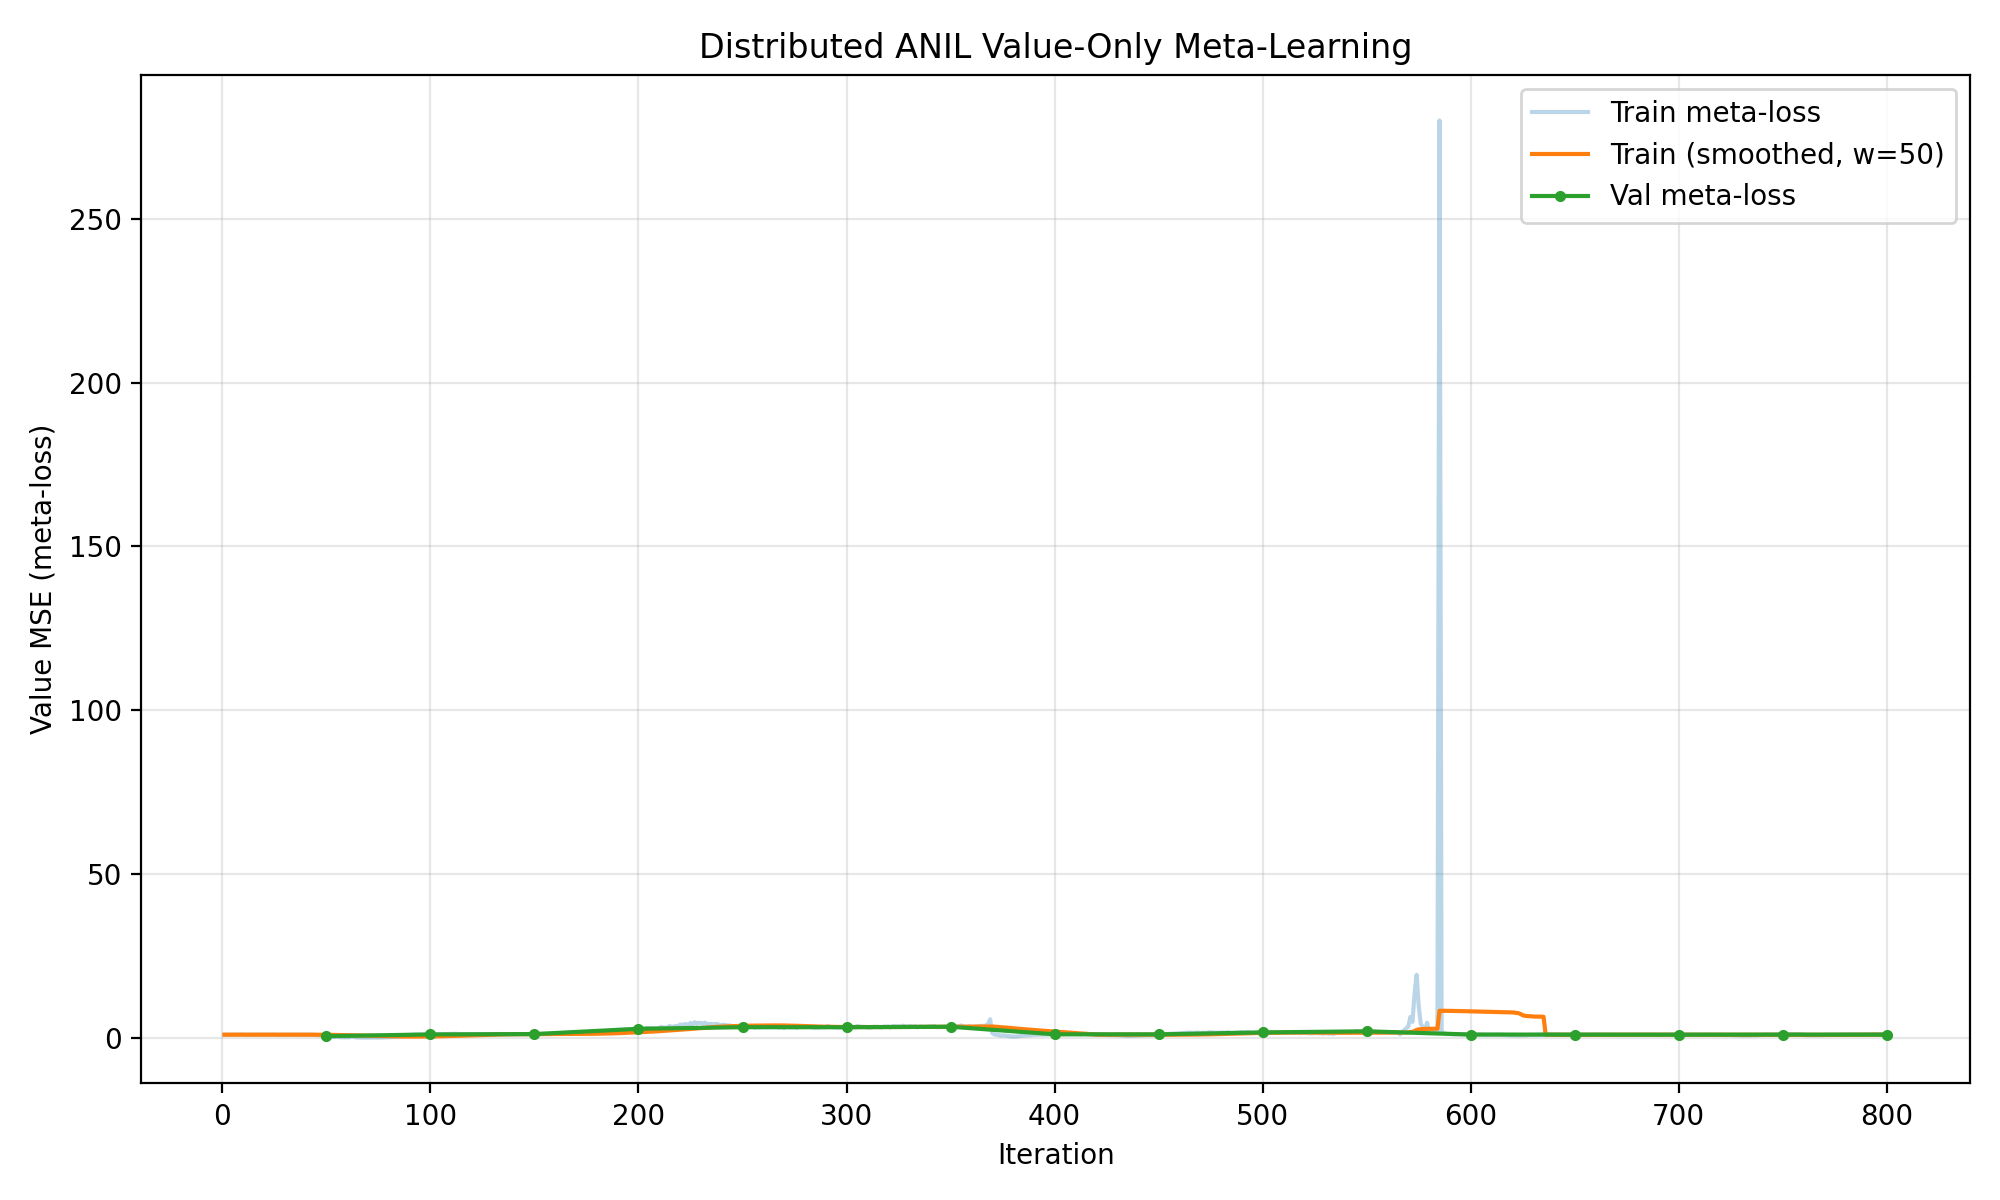
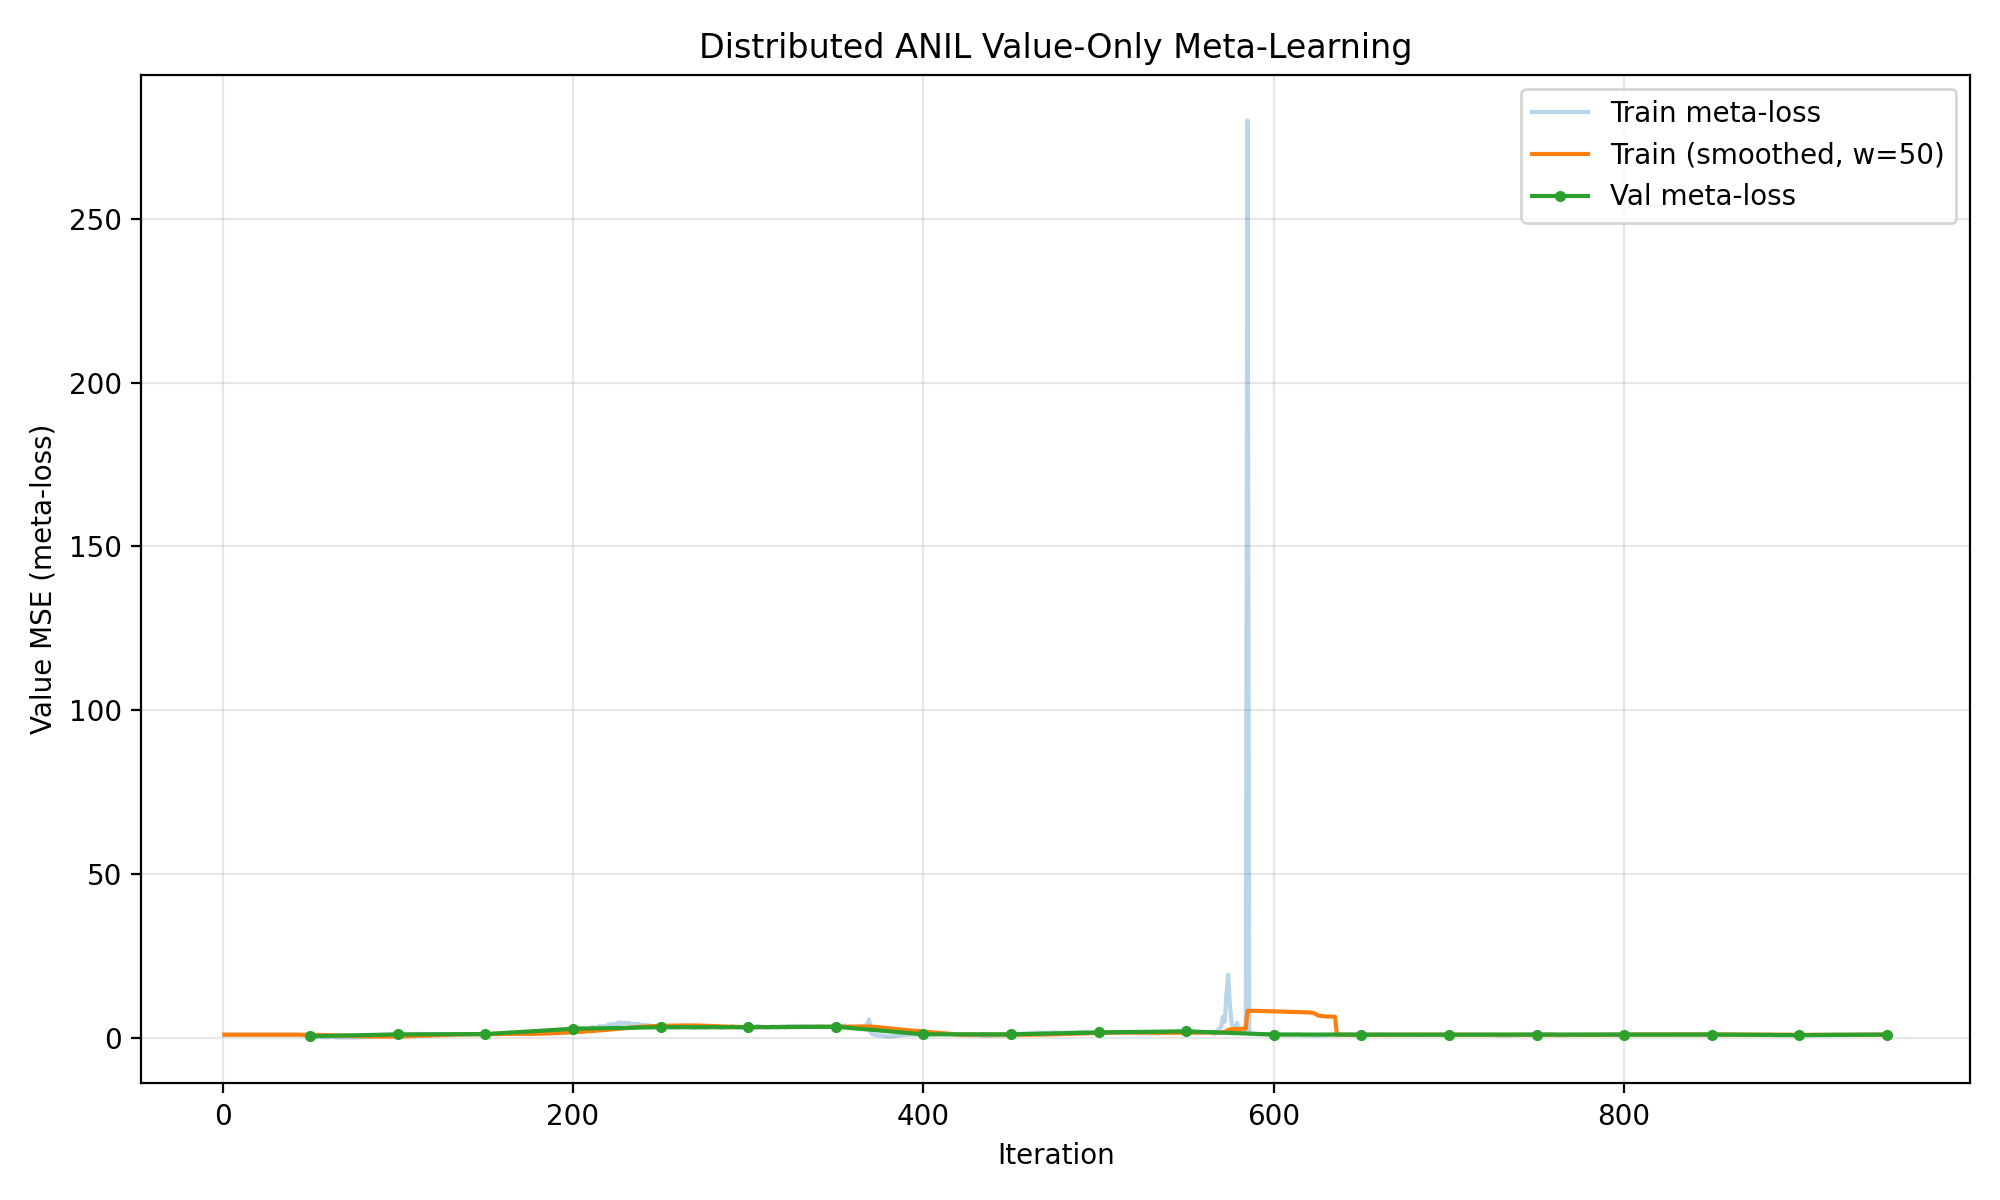
results: auto-update 2026-04-11 00:00

diff --git a/RESULTS.md b/RESULTS.md
@@ -35,12 +35,12 @@ value_hidden=64
 ```
 
 ## latest.pt
-- Iteration: 800
+- Iteration: 950
 - Best val meta-loss: 0.4949
-- Latest train meta-loss: 0.9863
-- Train loss range (last 50): 0.7672 – 1.0856
-- Latest val meta-loss: 0.9561
-- Val loss range (last 10): 0.9438 – 3.3700
+- Latest train meta-loss: 0.9488
+- Train loss range (last 50): 0.8205 – 1.0447
+- Latest val meta-loss: 0.9644
+- Val loss range (last 10): 0.8068 – 1.9762
 
 ## best.pt
 - Iteration: 50
@@ -53,36 +53,36 @@ value_hidden=64
 ## Loss Curve
 ![Loss](runs/game_task_v1/loss.png)
 
-## Console Log (last 30 of 962 lines)
+## Console Log (last 30 of 1089 lines)
 ```
-[it   806] meta_loss=0.9971 | 28341ms | 23326s
-[it   807] meta_loss=1.0145 | 28396ms | 23354s
-[it   808] meta_loss=1.0544 | 27652ms | 23382s
-[it   809] meta_loss=1.0351 | 28333ms | 23410s
-[it   810] meta_loss=1.0212 | 28428ms | 23439s
-[it   811] meta_loss=0.9919 | 27295ms | 23466s
-[it   812] meta_loss=1.0235 | 28468ms | 23494s
-[it   813] meta_loss=1.0464 | 28594ms | 23523s
-[it   814] meta_loss=1.0562 | 28412ms | 23551s
-[it   815] meta_loss=0.9961 | 28427ms | 23580s
-[it   816] meta_loss=0.9861 | 28625ms | 23608s
-[it   817] meta_loss=1.0208 | 28528ms | 23637s
-[it   818] meta_loss=1.0120 | 28367ms | 23665s
-[it   819] meta_loss=0.9943 | 28465ms | 23694s
-[it   820] meta_loss=1.0386 | 28289ms | 23722s
-[it   821] meta_loss=1.0318 | 28558ms | 23751s
-[it   822] meta_loss=0.9908 | 27719ms | 23778s
-[it   823] meta_loss=0.9586 | 28396ms | 23807s
-[it   824] meta_loss=0.9719 | 28339ms | 23835s
-[it   825] meta_loss=0.9768 | 28304ms | 23863s
-[it   826] meta_loss=1.0131 | 28430ms | 23892s
-[it   827] meta_loss=1.0151 | 28453ms | 23920s
-[it   828] meta_loss=1.0018 | 28279ms | 23949s
-[it   829] meta_loss=0.9738 | 28549ms | 23977s
-[it   830] meta_loss=0.9866 | 28439ms | 24006s
-[it   831] meta_loss=0.9858 | 28251ms | 24034s
-[it   832] meta_loss=0.9295 | 28314ms | 24062s
-[it   833] meta_loss=1.0080 | 28570ms | 24091s
-[it   834] meta_loss=0.9843 | 28560ms | 24119s
-[it   835] meta_loss=0.9948 | 31757ms | 24151s
+[it   931] meta_loss=0.9863 | 28521ms | 26939s
+[it   932] meta_loss=0.9492 | 28248ms | 26967s
+[it   933] meta_loss=0.9964 | 28354ms | 26995s
+[it   934] meta_loss=0.9890 | 27397ms | 27023s
+[it   935] meta_loss=0.9815 | 28678ms | 27051s
+[it   936] meta_loss=0.9953 | 28482ms | 27080s
+[it   937] meta_loss=1.0070 | 28647ms | 27109s
+[it   938] meta_loss=0.9747 | 28426ms | 27137s
+[it   939] meta_loss=0.9977 | 28530ms | 27165s
+[it   940] meta_loss=1.0247 | 28442ms | 27194s
+[it   941] meta_loss=0.9568 | 28342ms | 27222s
+[it   942] meta_loss=1.0013 | 28104ms | 27250s
+[it   943] meta_loss=0.9829 | 28252ms | 27279s
+[it   944] meta_loss=1.0012 | 28251ms | 27307s
+[it   945] meta_loss=1.0447 | 31668ms | 27339s
+[it   946] meta_loss=0.9915 | 28604ms | 27367s
+[it   947] meta_loss=0.9873 | 28440ms | 27396s
+[it   948] meta_loss=0.9854 | 28445ms | 27424s
+[it   949] meta_loss=0.9464 | 28655ms | 27453s
+[it   950] meta_loss=0.9488 | 29734ms | 27482s
+  [VAL] meta_loss=0.9644 (best=0.4949)
+[it   951] meta_loss=0.9813 | 28191ms | 27538s
+[it   952] meta_loss=0.9809 | 28318ms | 27566s
+[it   953] meta_loss=0.9673 | 28435ms | 27595s
+[it   954] meta_loss=0.9405 | 28497ms | 27623s
+[it   955] meta_loss=0.9913 | 27917ms | 27651s
+[it   956] meta_loss=0.9537 | 28249ms | 27679s
+[it   957] meta_loss=1.0187 | 28521ms | 27708s
+[it   958] meta_loss=1.0103 | 28019ms | 27736s
+[it   959] meta_loss=0.9778 | 28558ms | 27764s
 ```
